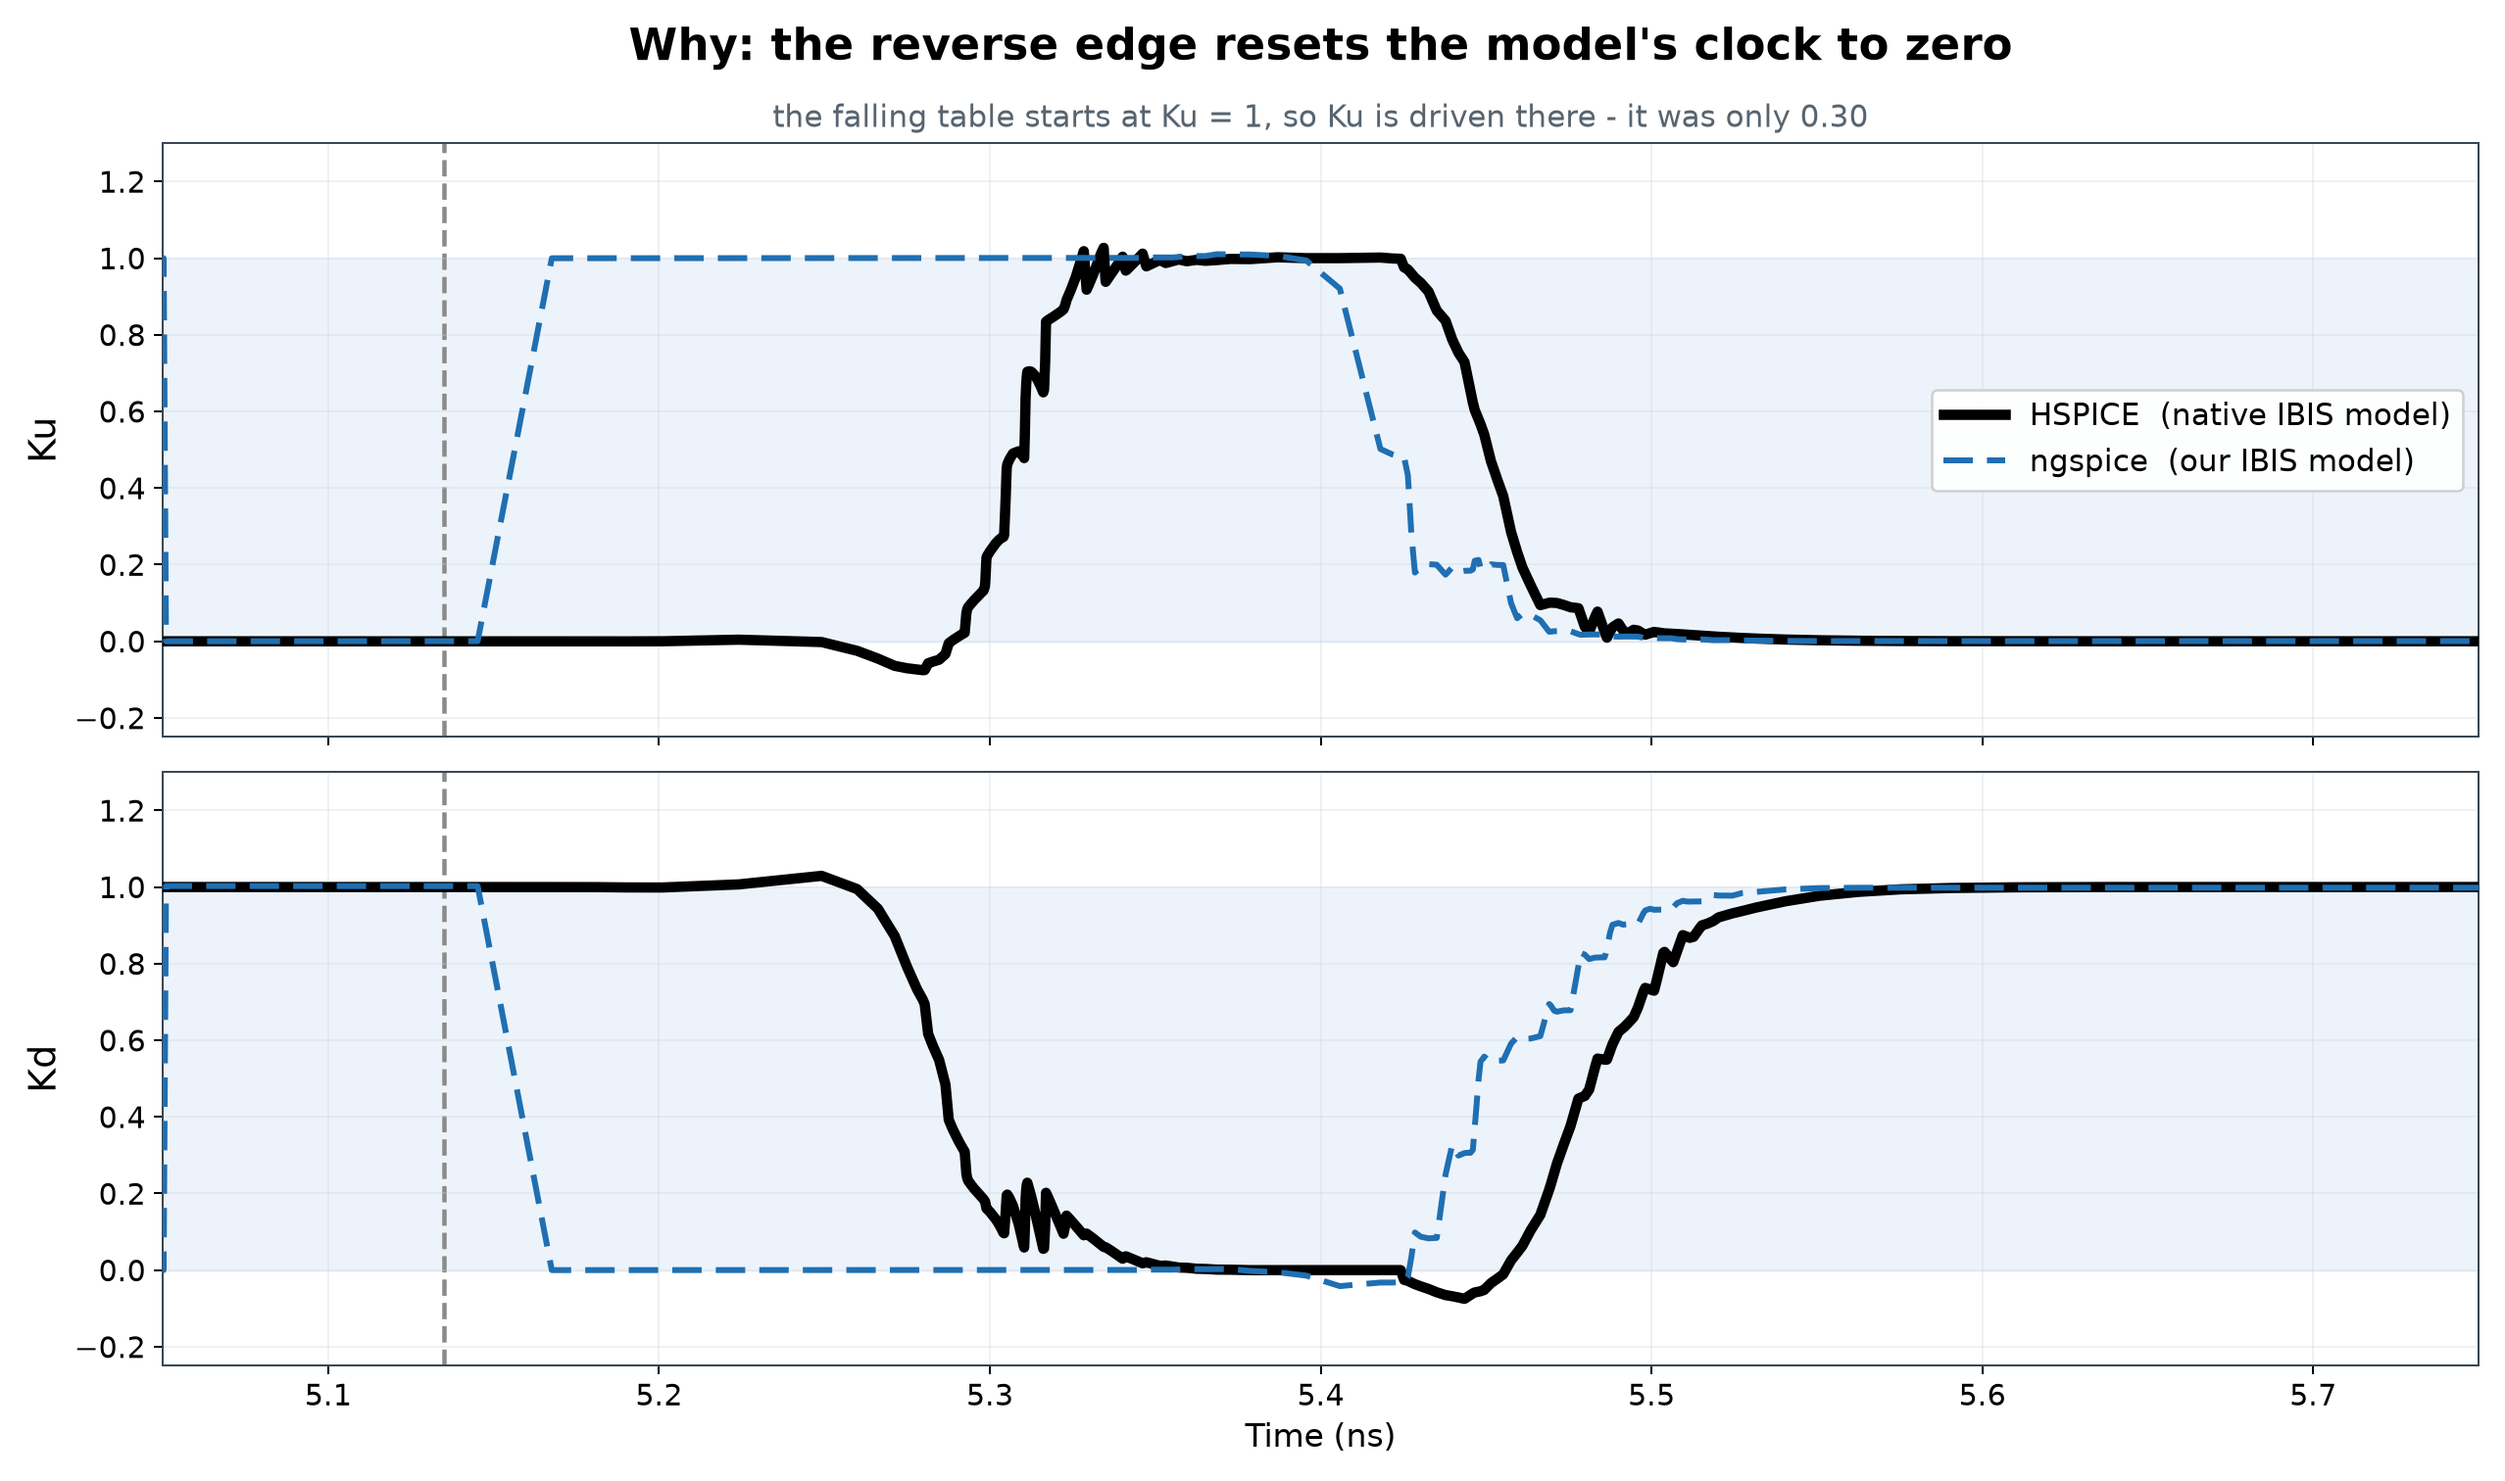
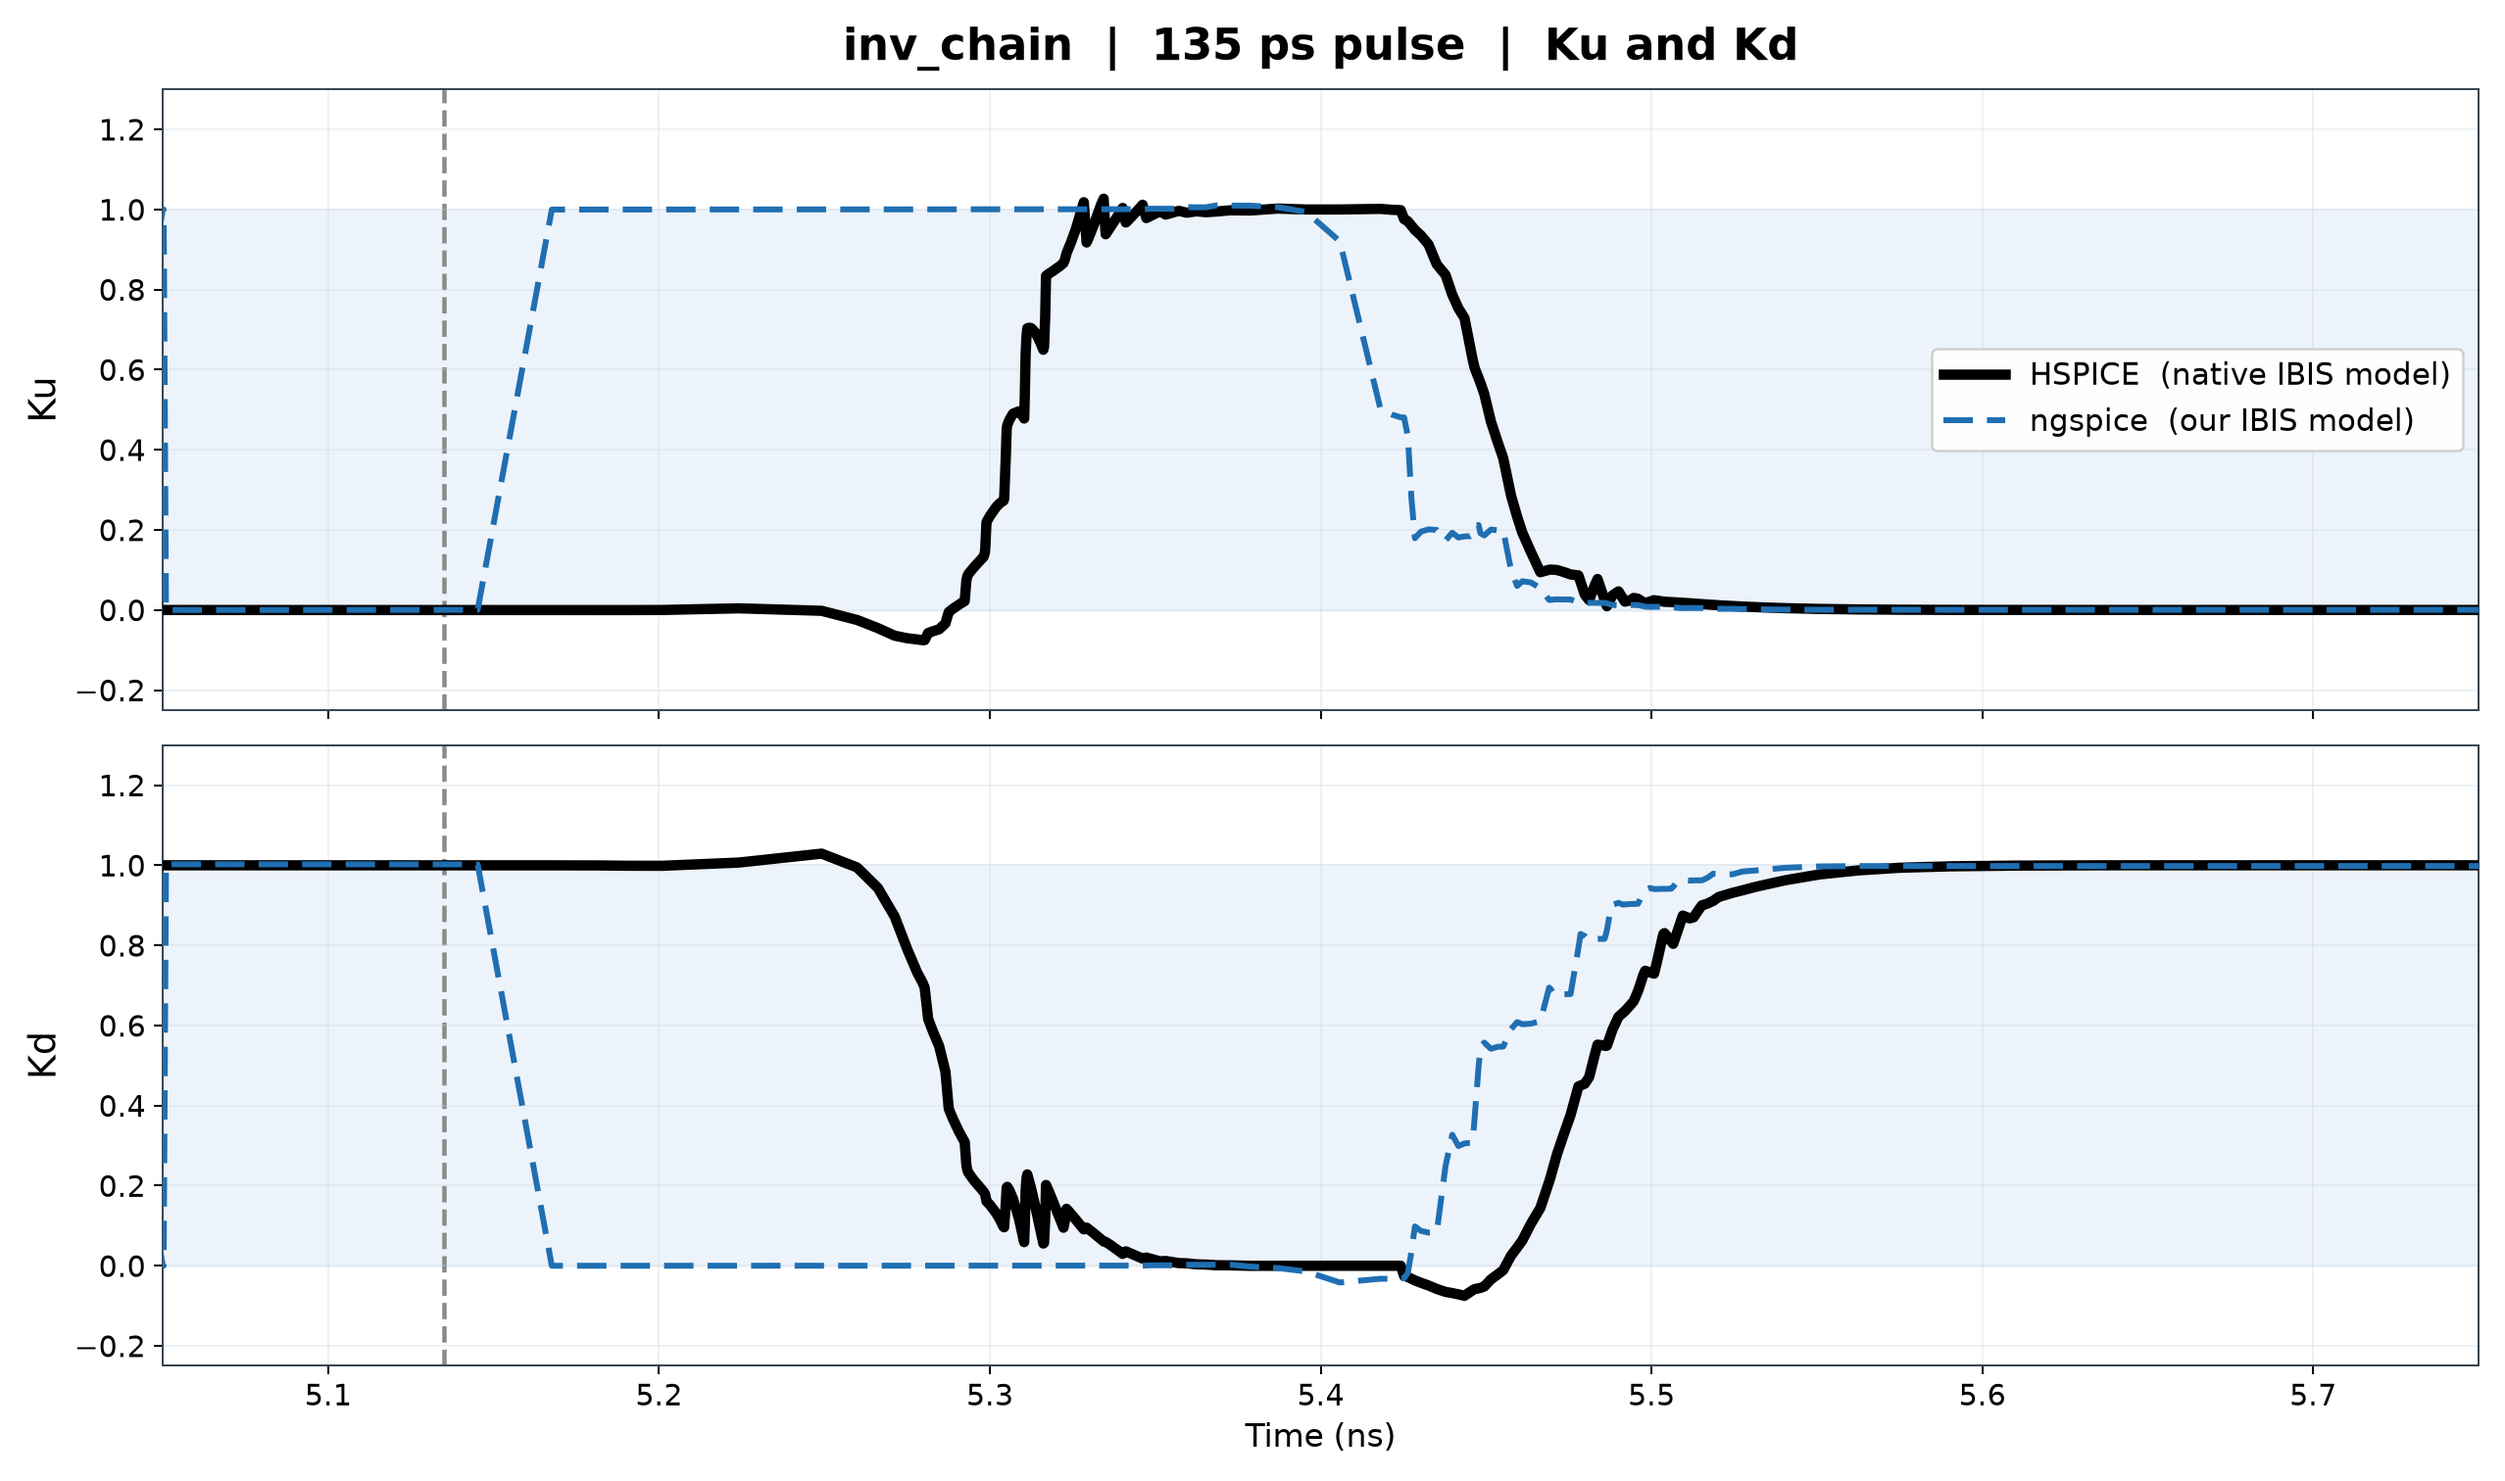
Neutral figure titles
Titles were arguing the case the speaker is there to argue, and the
subtitles were explaining the mechanism on the slide. Both are now just
labels: device, case, and what is plotted, pipe-separated like the
2026-08-18 flat set.

The measured separations still print to stdout when the scripts run, so
the numbers are available to quote without being stamped on the figure.

diff --git a/scripts/build_ibis_intro_figures.py b/scripts/build_ibis_intro_figures.py
@@ -69,16 +69,13 @@ def load(path: Path) -> dict[str, np.ndarray]:
     return {name: values[:, i] for i, name in enumerate(header)}
 
 
-def style(axis, title=None, subtitle=None):
+def style(axis, title=None):
     axis.grid(alpha=0.3, color="#C9D3DE", lw=0.8)
     axis.tick_params(labelsize=12)
     for spine in axis.spines.values():
         spine.set_color("#3A4753")
     if title:
-        axis.set_title(title, fontsize=18, fontweight="bold", pad=34 if subtitle else 12)
-    if subtitle:
-        axis.text(0.5, 1.015, subtitle, transform=axis.transAxes, ha="center",
-                  va="bottom", fontsize=12.5, color="#57646F")
+        axis.set_title(title, fontsize=18, fontweight="bold", pad=12)
 
 
 def worst_gap(t, a, b, window, exclude=(), guard=0.15):
@@ -100,7 +97,7 @@ def worst_gap(t, a, b, window, exclude=(), guard=0.15):
     return float(np.max(np.abs(a[m] - b[m]))) if m.any() else float("nan")
 
 
-def pad_figure(path, d, window, title, subtitle=None, t_rev=None):
+def pad_figure(path, d, window, title, t_rev=None):
     t = d["time_ns"]
     fig, axis = plt.subplots(figsize=WIDE)
     axis.plot(t, d["hspice_pad"], color=NATIVE, lw=4.2,
@@ -113,14 +110,14 @@ def pad_figure(path, d, window, title, subtitle=None, t_rev=None):
     axis.set_xlim(*window)
     axis.set_xlabel("Time (ns)", fontsize=13)
     axis.set_ylabel("Pad voltage (V)", fontsize=13)
-    style(axis, title, subtitle)
+    style(axis, title)
     axis.legend(fontsize=12.5, loc="best", framealpha=0.92)
     fig.tight_layout()
     fig.savefig(path, dpi=DPI)
     plt.close(fig)
 
 
-def kukd_figure(path, d, window, title, subtitle=None, t_rev=None, notes=None):
+def kukd_figure(path, d, window, title, t_rev=None, notes=None):
     t = d["time_ns"]
     fig, axes = plt.subplots(2, 1, figsize=STACK, sharex=True)
     for axis, coeff in zip(axes, ("ku", "kd")):
@@ -134,11 +131,7 @@ def kukd_figure(path, d, window, title, subtitle=None, t_rev=None, notes=None):
         axis.set_ylabel(coeff.replace("k", "K"), fontsize=15)
         axis.set_ylim(-0.25, 1.3)
         style(axis)
-    axes[0].set_title(title, fontsize=18, fontweight="bold",
-                      pad=34 if subtitle else 12)
-    if subtitle:
-        axes[0].text(0.5, 1.015, subtitle, transform=axes[0].transAxes, ha="center",
-                     va="bottom", fontsize=12.5, color="#57646F")
+    axes[0].set_title(title, fontsize=18, fontweight="bold", pad=12)
     axes[0].legend(fontsize=12.5, loc="center right", framealpha=0.92)
     axes[1].set_xlabel("Time (ns)", fontsize=13)
     axes[0].set_xlim(*window)
@@ -178,21 +171,16 @@ def main() -> int:
     gap_ku = worst_gap(full["time_ns"], full["hspice_ku"], full["pybis_ku"], full_win, edges)
     gap_kd = worst_gap(full["time_ns"], full["hspice_kd"], full["pybis_kd"], full_win, edges)
 
+    full_label = f"{args.device}  |  full transition"
+    short_label = f"{args.device}  |  {short_w:.0f} ps pulse"
     pad_figure(out / "1_full_swing_pad.png", full, full_win,
-               "A full transition: our model reproduces the IBIS reference",
-               f"worst separation {gap_pad * 1000:.0f} mV")
+               f"{full_label}  |  pad voltage")
     kukd_figure(out / "2_full_swing_kukd.png", full, full_win,
-                "The same agreement, in the coefficients themselves",
-                f"worst separation  Ku {gap_ku:.2f}   Kd {gap_kd:.2f}"
-                "   (away from the switching instants)")
+                f"{full_label}  |  Ku and Kd")
     pad_figure(out / "3_short_pulse_pad.png", short, short_win,
-               "Interrupt the transition and the agreement goes",
-               f"pulse reversed after {short_w:.0f} ps", t_rev=t_rev)
+               f"{short_label}  |  pad voltage", t_rev=t_rev)
     kukd_figure(out / "4_short_pulse_kukd.png", short, short_win,
-                "Why: the reverse edge resets the model's clock to zero",
-                "the falling table starts at Ku = 1, so Ku is driven there - "
-                "it was only 0.30",
-                t_rev=t_rev)
+                f"{short_label}  |  Ku and Kd", t_rev=t_rev)
 
     print(f"{args.device}: full swing w{full_w:.0f}ps, short pulse w{short_w:.0f}ps")
     print(f"  full-swing worst separation: pad {gap_pad * 1000:.1f} mV, "

diff --git a/scripts/build_reversal_method_figures.py b/scripts/build_reversal_method_figures.py
@@ -135,10 +135,11 @@ def main() -> int:
             print(f"  {key}: no converged run at this case")
             continue
         d = load(path)
+        case = f"{DEVICE}  |  {WIDTH_PS:.0f} ps pulse  |  {label}"
         pad_figure(out / f"{index}_{key}_pad.png", d, colour, label,
-                   f"{label}: pad voltage", t_rev)
+                   f"{case}  |  pad voltage", t_rev)
         kukd_figure(out / f"{index}_{key}_kukd.png", d, colour, label,
-                    f"{label}: Ku and Kd", t_rev)
+                    f"{case}  |  Ku and Kd", t_rev)
 
         t = d["time_ns"]
         w = (t >= EDGE_NS) & (t <= t_rev + 2.0)
